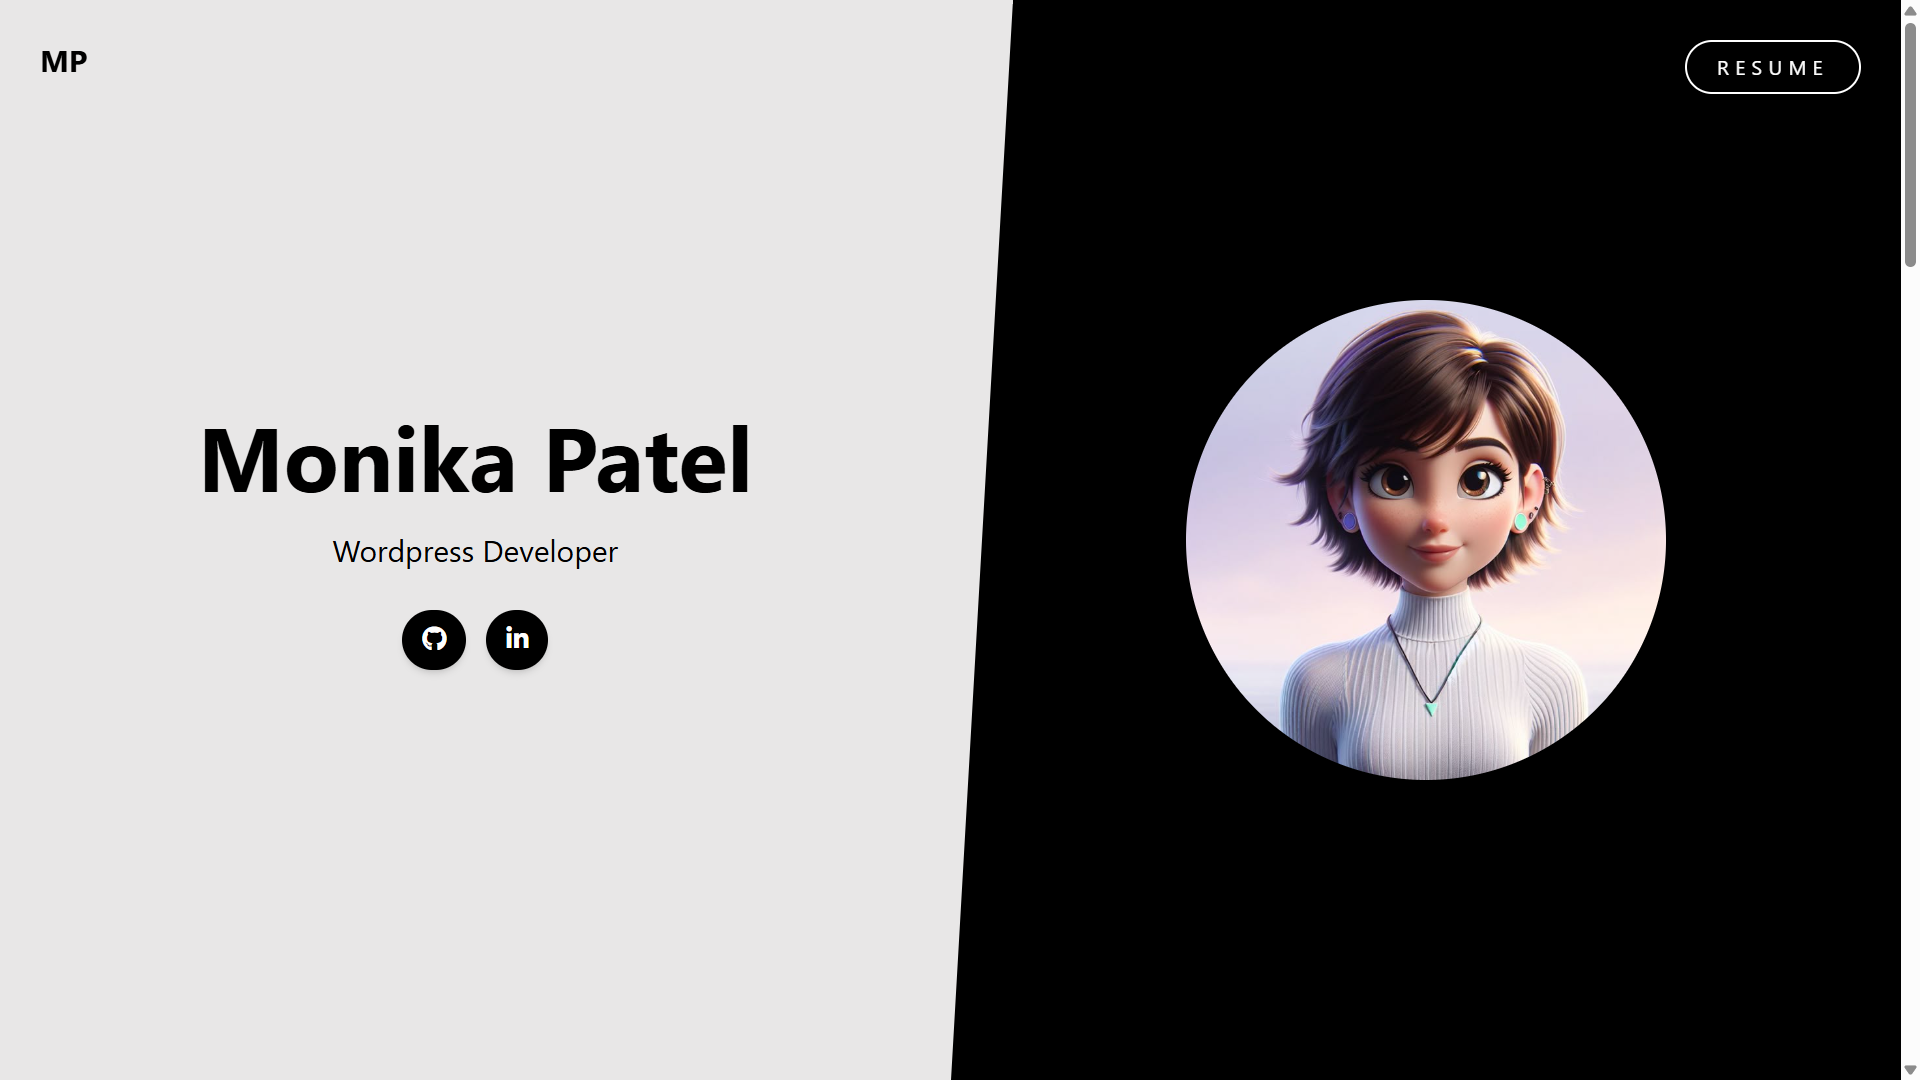
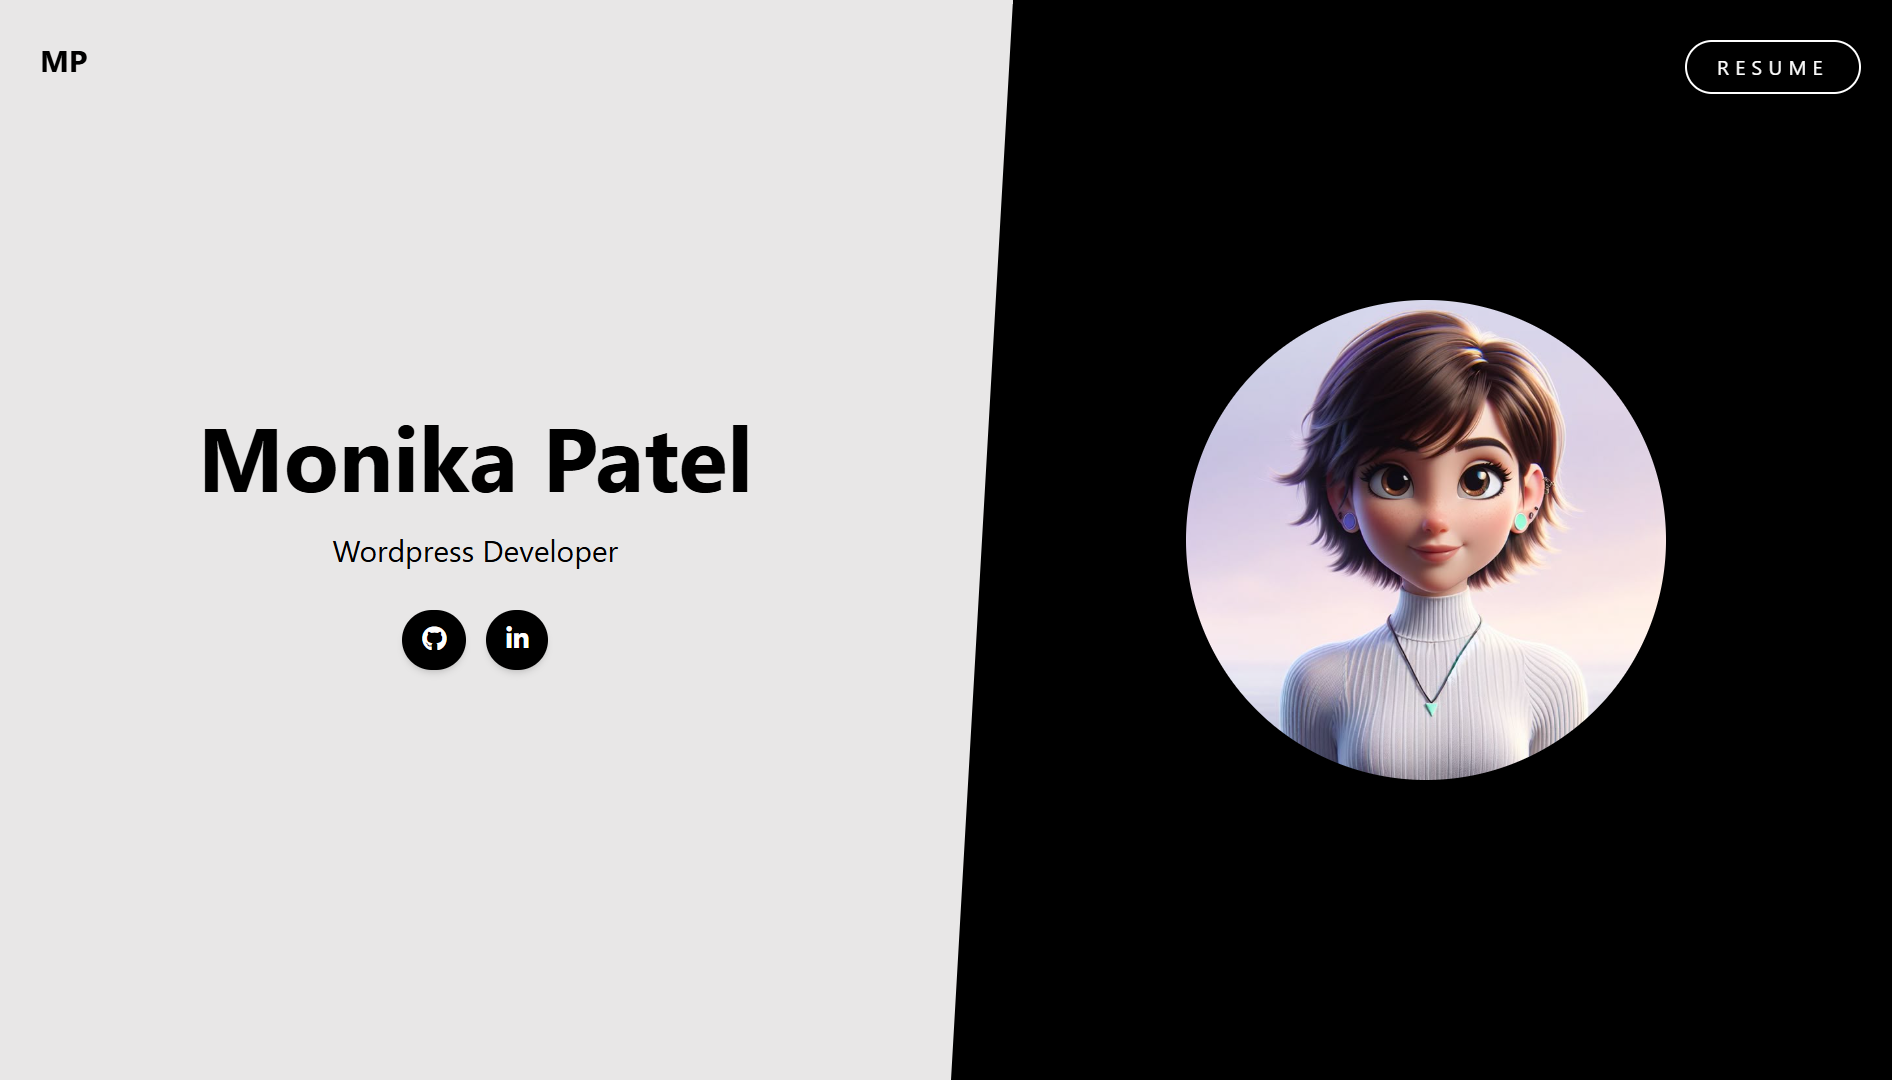
Added responsive style.

diff --git a/src/components/Works.tsx b/src/components/Works.tsx
@@ -1,6 +1,5 @@
 import { FaGithub, FaExternalLinkAlt } from "react-icons/fa";
 import { motion } from "framer-motion";
-
 import { useState } from "react";
 import { projects } from "../constants";
 
@@ -18,32 +17,33 @@ const Works: React.FC = () => {
   return (
     <section
       id="projects"
-      className="max-w-5xl mx-auto px-4 h-full flex flex-col"
+      className="max-w-5xl mx-auto flex flex-col px-[60px] py-[30px] lg:px-4 lg:py-[10px] mobile-landscape-padding"
     >
       <div className="">
-        <h2 className="text-2xl md:text-3xl font-bold mb-8 text-[#64ffda] flex items-center gap-2">
+        <h2 className="text-xl lg:text-3xl font-bold text-[#64ffda] flex items-center gap-2">
           <span className="numbered-heading"> Some Things I've Built</span>
           <span className="flex-1 h-px bg-gray-300"></span>
         </h2>
       </div>
-      <div className="flex-1 overflow-auto flex justify-center items-center">
-        <div className="flex flex-col md:flex-row gap-5">
-          <div>
+      <div className="flex-1 flex mt-8">
+        <div className="flex flex-col lg:flex-row gap-5 w-full">
+          {/* Desktop: Single project with selector */}
+          <div className="hidden lg:block w-full">
             <motion.div
+              key={selectedProject}
               custom={selectedProject}
               initial="hidden"
-              whileInView="visible"
+              animate="visible"
               viewport={{ once: true, amount: 0.3 }}
               variants={fadeInUp}
-              className={`relative flex flex-col-reverse md:flex-row items-center group`}
+              className={`relative flex flex-col-reverse lg:flex-row items-center group`}
             >
               {/* Project Content */}
               <div
                 className={`
-                  w-full md:w-1/2 z-10
-                  md:mr-[-4rem]
-                  md:mt-0 mt-[-4rem]
-                  
+                  w-full lg:w-1/2 z-10
+                  lg:mr-[-4rem]
+                  lg:mt-0 mt-[-4rem]
                 `}
               >
                 <p className={`text-[#64ffda] text-sm mb-2 text-left`}>
@@ -61,8 +61,7 @@ const Works: React.FC = () => {
                 </h3>
                 <div
                   className="mb-4 bg-white/90 dark:bg-gray-900/80
-                  p-6 md:p-8 rounded-lg shadow-lg
-                  md:shadow-2xl backdrop-blur"
+                  p-6 lg:p-8 rounded-lg backdrop-blur"
                 >
                   <p className="text-gray-700 dark:text-gray-300">
                     {projects[selectedProject].description}
@@ -103,29 +102,25 @@ const Works: React.FC = () => {
               {/* Project Image */}
               <div
                 className={`
-                  w-full md:w-1/2 h-64 md:h-[340px] rounded-lg overflow-hidden shadow-lg relative
-                  md:justify-start
+                  w-full lg:w-1/2 h-64 lg:h-[340px] rounded-lg overflow-hidden relative
+                  lg:justify-start
                   flex items-center
                 `}
               >
-                <a
-                  href={projects[selectedProject].external}
-                  target="_blank"
-                  rel="noopener noreferrer"
-                  className="block w-full h-full"
-                >
+                <div className="block w-full h-full">
                   <img
                     src={projects[selectedProject].image}
                     alt={projects[selectedProject].title}
                     className="object-cover w-full h-full transition-transform duration-300 group-hover:scale-105"
                   />
                   {/* Overlay for mobile */}
-                  <div className="absolute inset-0 bg-gradient-to-t from-[#64ffda]/60 via-transparent to-transparent md:hidden"></div>
-                </a>
+                  <div className="absolute inset-0 bg-gradient-to-t from-[#64ffda]/60 via-transparent to-transparent lg:hidden"></div>
+                </div>
               </div>
             </motion.div>
           </div>
-          <div className="shrink-0">
+          {/* Desktop: Project selector */}
+          <div className="shrink-0 hidden lg:block">
             <div className="flex flex-col">
               {projects.map((project, index) => (
                 <div
@@ -146,6 +141,80 @@ const Works: React.FC = () => {
                     <div className="w-px h-8 border-r-2 border-dotted border-white"></div>
                   )}
                 </div>
+              ))}
+            </div>
+          </div>
+          {/* Mobile: Show all projects stacked */}
+          <div className="block lg:hidden w-full">
+            <div className="flex flex-col gap-8">
+              {projects.map((project, idx) => (
+                <motion.div
+                  key={project.title}
+                  custom={idx}
+                  initial="hidden"
+                  animate="visible"
+                  viewport={{ once: true, amount: 0.3 }}
+                  variants={fadeInUp}
+                  className="relative flex flex-col items-center group rounded-lg border border-gray-200"
+                >
+                  <div className="block w-full h-48 rounded-lg overflow-hidden mb-4">
+                    <img
+                      src={project.image}
+                      alt={project.title}
+                      className="object-cover w-full h-full transition-transform duration-300 group-hover:scale-105"
+                    />
+                    {/* <div className="absolute inset-0"></div> */}
+                  </div>
+                  <div className="w-full p-4">
+                    <p className="text-[#64ffda] text-sm mb-2 text-left">
+                      {project.overline}
+                    </p>
+                    <h3 className="text-2xl font-bold mb-4 text-left">
+                      <a
+                        href={project.external}
+                        target="_blank"
+                        rel="noopener noreferrer"
+                        className="hover:underline"
+                      >
+                        {project.title}
+                      </a>
+                    </h3>
+                    <div className="mb-4 bg-white/90 dark:bg-gray-900/80 p-6 rounded-lg backdrop-blur">
+                      <p className="text-gray-700 dark:text-gray-300">
+                        {project.description}
+                      </p>
+                    </div>
+                    <ul className="flex flex-wrap gap-4 text-sm mb-4 justify-start">
+                      {project.tech.map((tech) => (
+                        <li key={tech} className="text-[#64ffda] font-mono">
+                          {tech}
+                        </li>
+                      ))}
+                    </ul>
+                    <div className="flex gap-4 justify-start">
+                      {project.github && (
+                        <a
+                          href={project.github}
+                          target="_blank"
+                          rel="noopener noreferrer"
+                          aria-label="GitHub Link"
+                        >
+                          <FaGithub className="w-6 h-6 hover:text-[#64ffda] transition" />
+                        </a>
+                      )}
+                      {project.external && (
+                        <a
+                          href={project.external}
+                          target="_blank"
+                          rel="noopener noreferrer"
+                          aria-label="External Link"
+                        >
+                          <FaExternalLinkAlt className="w-6 h-6 hover:text-[#64ffda] transition" />
+                        </a>
+                      )}
+                    </div>
+                  </div>
+                </motion.div>
               ))}
             </div>
           </div>

diff --git a/src/components/Home.tsx b/src/components/Home.tsx
@@ -1,11 +1,12 @@
 import { motion } from "framer-motion";
 import { fadeInUp } from "../utils/motion";
 import profileImg from "../assets/profile.jpg";
+
 const Home: React.FC = () => {
   return (
-    <section className="max-w-5xl mx-auto px-4 h-full flex flex-col justify-center">
-      <div className="flex gap-2">
-        <div className="flex flex-col gap-6">
+    <section className="max-w-5xl mx-auto px-[60px] py-[50px] lg:px-4 lg:py-[50px] flex flex-col justify-center mobile-landscape-padding">
+      <div className="flex flex-col-reverse md:flex-row gap-8 md:gap-2 items-center md:items-start">
+        <div className="flex flex-col gap-6 flex-1">
           <motion.div
             custom={0}
             initial="hidden"
@@ -63,7 +64,7 @@ const Home: React.FC = () => {
           </motion.div>
         </div>
         <motion.div
-          className="relative w-[300px] h-[300px]"
+          className="relative w-full max-w-[300px] h-[300px] mx-auto md:mx-0"
           initial={{ opacity: 0, scale: 0.8, x: 60 }}
           animate={{ opacity: 1, scale: 1, x: 0 }}
           transition={{
@@ -73,10 +74,9 @@ const Home: React.FC = () => {
             stiffness: 80,
           }}
         >
-          <div className="h-[290px] absolute inset-0 transform -translate-x-4 translate-y-2 rotate-[-4deg] bg-gradient-to-tr from-[#64ffda] to-[#1e2939] rounded-bl-[100px] z-0"></div>
-
-          <div className="relative w-full h-full p-[2px] rounded-bl-[100px] z-10 top-[-5px]">
-            <div className="w-full h-full overflow-hidden rounded-bl-[100px] bg-white">
+          <div className="h-[90%] absolute inset-0 transform -translate-x-2 sm:-translate-x-4 translate-y-1 sm:translate-y-2 rotate-[-4deg] bg-gradient-to-tr from-[#64ffda] to-[#1e2939] rounded-bl-[60px] sm:rounded-bl-[100px] z-0"></div>
+          <div className="relative w-full h-full p-[2px] rounded-bl-[60px] sm:rounded-bl-[100px] z-10 top-[-5px]">
+            <div className="w-full h-full overflow-hidden rounded-bl-[60px] sm:rounded-bl-[100px] bg-white">
               <img
                 src={profileImg}
                 alt="Profile"
@@ -89,4 +89,5 @@ const Home: React.FC = () => {
     </section>
   );
 };
+
 export default Home;

diff --git a/src/constants/index.tsx b/src/constants/index.tsx
@@ -174,7 +174,7 @@ export const projects: Project[] = [
     title: "Circle Vision",
     overline: "Timeloop Technologies",
     description:
-      "This is a website where Real Estate brokers can list the properties that they are selling/renting. The properties are listed in the form of auto-generated websites based on the content they provide. The content can be text, photos, videos and 3D tours. Customers can also register the domain they want to use for the auto-generated website.",
+      "This platform allows real estate brokers to list properties for sale or rent through auto-generated websites using their uploaded content—like text, images, videos, and 3D tours. I worked as a Front-End Developer, where I designed and developed new features and integrated APIs to enhance the overall functionality and user experience.",
     tech: ["Angular", "Bootstrap", "API Integration", "jQuery", "HTML", "CSS"],
     image: circleVisionImg,
   },

diff --git a/src/index.css b/src/index.css
@@ -7,6 +7,20 @@
   --color-secondary: var(--color-blue-500);
 } */
 
+*::-webkit-scrollbar {
+  width: 8px;
+  background: transparent;
+}
+
+*::-webkit-scrollbar-thumb {
+  background: #64ffda;
+  border-radius: 8px;
+}
+
+*::-webkit-scrollbar-thumb:hover {
+  background: #43c6ac;
+}
+
 * {
   box-sizing: border-box;
   font-family: "Ubuntu", sans-serif;
@@ -154,4 +168,13 @@
   border-top: 30px solid transparent;
   border-bottom: 30px solid transparent;
   border-left: 12px solid #64ffda;
+}
+@media (orientation: landscape) and (max-width: 1023px),
+  (min-width: 768px) and (max-width: 1023px) and (orientation: portrait) {
+  .mobile-landscape-padding {
+    padding-left: 100px !important;
+    padding-right: 100px !important;
+    padding-top: 30px !important;
+    padding-bottom: 30px !important;
+  }
 }

diff --git a/src/components/About.tsx b/src/components/About.tsx
@@ -7,7 +7,10 @@ import { skills } from "../constants";
 
 const About: React.FC = () => {
   return (
-    <section id="about" className="max-w-5xl mx-auto h-full flex flex-col">
+    <section
+      id="about"
+      className="max-w-5xl mx-auto px-[60px] py-[50px] lg:px-4 lg:py-[10px] flex flex-col mobile-landscape-padding"
+    >
       <div className="flex flex-col md:flex-row gap-10 items-stretch pb-4">
         <div className="md:w-1/2 flex flex-col h-full">
           <h2 className="text-2xl md:text-3xl font-bold mb-8 text-[#64ffda] flex items-center gap-2">

diff --git a/src/components/Experience.tsx b/src/components/Experience.tsx
@@ -6,7 +6,7 @@ import { detailVariants } from "../utils/motion";
 const Experience: React.FC = () => {
   const [selectedExperience, setSelectedExperience] = useState(0);
   return (
-    <section className="max-w-5xl mx-auto px-4 h-full flex flex-col">
+    <section className="max-w-5xl mx-auto px-[60px] py-[50px] lg:px-4 lg:py-[10px] flex flex-col mobile-landscape-padding">
       <motion.div
         initial={{ opacity: 0, y: -30 }}
         animate={{ opacity: 1, y: 0 }}

diff --git a/src/components/Contact.tsx b/src/components/Contact.tsx
@@ -34,7 +34,7 @@ const Contact: React.FC = () => {
   return (
     <section
       id="contact"
-      className="max-w-5xl mx-auto px-4 h-full flex flex-col items-center justify-center"
+      className="max-w-5xl mx-auto px-[60px] py-[50px] lg:px-4 lg:py-[10px] h-auto lg:h-full flex flex-col items-center justify-center mobile-landscape-padding"
     >
       <motion.div
         initial={{ opacity: 0, y: -30 }}

diff --git a/src/components/Nav.tsx b/src/components/Nav.tsx
@@ -37,7 +37,7 @@ const Nav: React.FC = () => {
           <ThemeToggle />
         </div>
       </nav>
-      <div className="fixed bottom-0 left-[50px] z-9">
+      <div className="fixed bottom-0 md:left-[50px] left-[10px] z-9">
         <div className="flex flex-col gap-4 justify-center items-center">
           <div>
             <a
